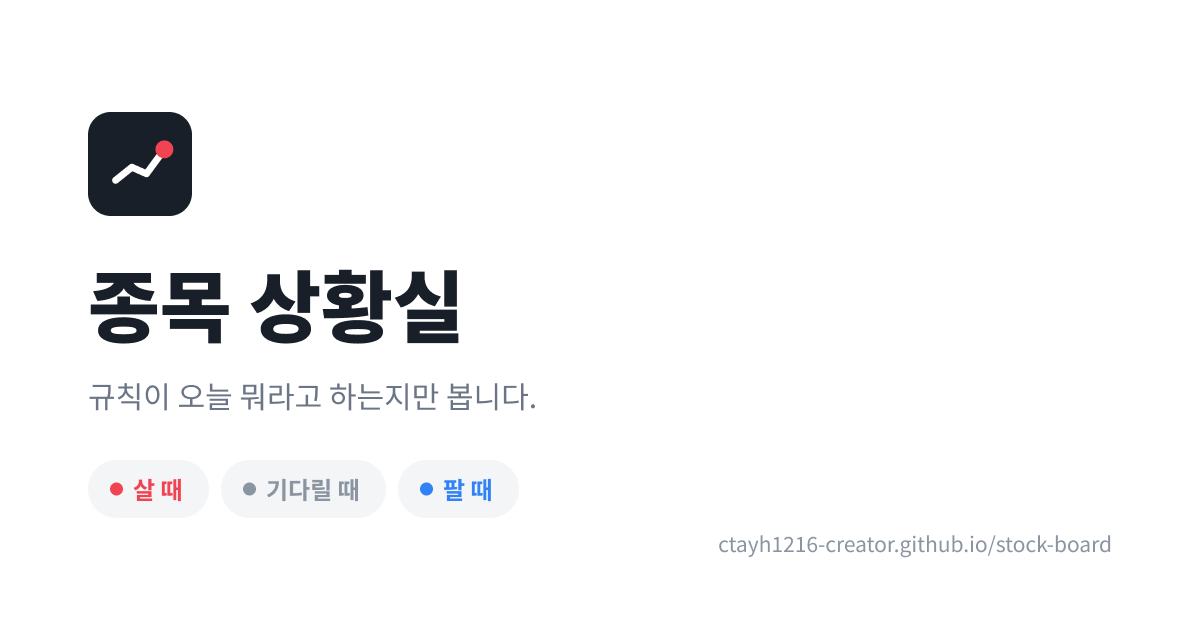
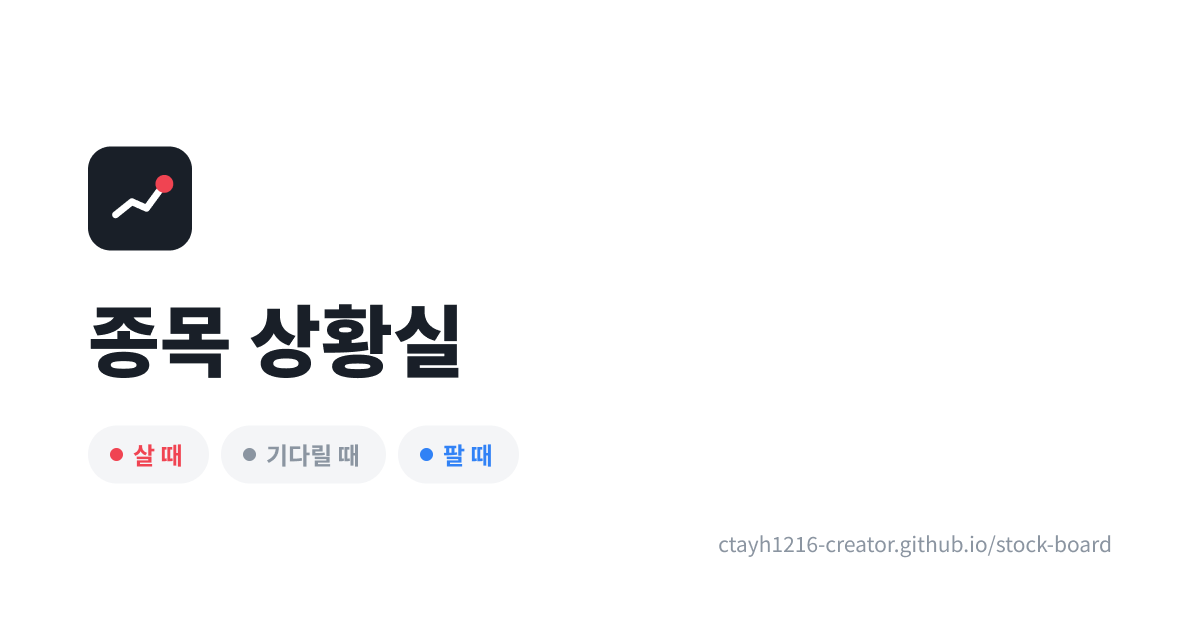
copy: 사이트·공유 카드 문구를 ko-writing 검사대로 고친다
화면 문구와 공유 카드를 스킬 검사 없이 썼다. 새 눈 검토에서 걸린 문장만 고친다.

- 공유 카드 부제 「규칙이 오늘 뭐라고 하는지만 봅니다」 삭제. 09-05에 반려된
  「사람이 아니라 규칙이 말하는 구간」과 같은 줄(우리 자세를 설명하는 문장)
- 뉴스 탭 부제 「누르면 원문으로 가요」, 「보유·관심 종목에 나온 기사예요」 삭제
- 티커·평단 → 종목·산 가격. 빈 카드, 입력칸, 보유 줄, 오류 문구를 같이 바꿔
  한 기능 안에서 말이 어긋나지 않게 한다. 걸리지 않은 매입환율은 그대로
- 전량 팔면 → 다 팔면
- title·og:title 「종목 상황실」 (엠대시, 「추천」은 탭 이름에만)
- og/meta description에 한국 추가. 화면엔 미국·한국 전환이 있는데 S&P 500만 말했다.
  한국은 162개라 코스피 200이 아니다
- 하단 안내의 저장 문구 중복 삭제

같이 고친 것
- 「지금까지 +X원 (+Y%)」의 %가 달러 기준이었다. 매입환율이 있으면 원화끼리 나눈다
  (예: 원화 +72.3% / 달러 +68.5%)
- 한글 줄바꿈 word-break:keep-all. 「계산해 / 요.」 「테 / 라다인」처럼 끊기던 것
- 빈 부제는 .hero p:empty 로 숨긴다

검사: check.py 고친 문구 금지 0 · 확인 0. 320~1600px 여덟 폭 × 네 탭 + 상세 시트
가로 넘침 0, 콘솔 오류 없음.

diff --git a/discover_template.html b/discover_template.html
@@ -3,13 +3,13 @@
 <meta charset="utf-8">
 <meta name="viewport" content="width=device-width,initial-scale=1,viewport-fit=cover">
 <meta name="robots" content="noindex,nofollow">
-<title>종목 상황실 — 오늘의 주식 추천과 뉴스</title>
-<meta name="description" content="S&P 500 전 종목을 규칙으로 걸러 오늘 주목할 종목을 골라주고, 한국어 뉴스를 함께 보여줍니다. 무료, 로그인 없음.">
+<title>종목 상황실</title>
+<meta name="description" content="S&amp;P 500과 한국 주식을 규칙으로 걸러낸 오늘의 종목과 한국어 뉴스.">
 <link rel="canonical" href="https://ctayh1216-creator.github.io/stock-board/">
 <meta property="og:type" content="website">
 <meta property="og:locale" content="ko_KR">
-<meta property="og:title" content="종목 상황실 — 오늘의 주식 추천과 뉴스">
-<meta property="og:description" content="S&P 500을 규칙으로 걸러낸 오늘의 종목과 한국어 뉴스.">
+<meta property="og:title" content="종목 상황실">
+<meta property="og:description" content="S&amp;P 500과 한국 주식을 규칙으로 걸러낸 오늘의 종목과 한국어 뉴스.">
 <meta property="og:url" content="https://ctayh1216-creator.github.io/stock-board/">
 <meta property="og:image" content="https://ctayh1216-creator.github.io/stock-board/og.png">
 <meta property="og:image:type" content="image/png">
@@ -70,6 +70,10 @@
 body{margin:0;background:var(--ground);color:var(--ink);font-family:var(--sans);
   font-size:17px;font-weight:400;line-height:1.59;letter-spacing:normal;
   -webkit-font-smoothing:antialiased}
+/* 한글은 낱말 단위로 줄을 바꾼다. 없으면 「계산해 / 요.」 「테 / 라다인」처럼 낱말 가운데서 끊긴다.
+   overflow-wrap 은 anywhere 가 아니라 break-word — anywhere 는 최소 폭 계산을 바꿔
+   좁은 줄에서 가격 숫자까지 쪼갤 수 있다. break-word 는 한 줄에 안 들어갈 때만 쪼갠다. */
+body{word-break:keep-all;overflow-wrap:break-word}
 h1,h2{font-family:var(--display);letter-spacing:normal}
 :focus-visible{outline:2px solid var(--accent);outline-offset:2px;border-radius:6px}
 .num{font-variant-numeric:tabular-nums;font-feature-settings:"tnum" 1}
@@ -109,6 +113,7 @@ button{font:inherit;color:inherit}
 .hero .stamp{margin-top:20px;font-size:13px;color:var(--t3)}
 .hero.slim{padding:12px 22px 0;text-align:left}
 .hero.slim h1,.hero.slim p{display:none}
+.hero p:empty{display:none}
 .hero.slim .stamp{margin-top:0}
 
 /* ---------- layout ---------- */
@@ -587,9 +592,9 @@ td.tk small{display:block;font-weight:400;font-size:13px;color:var(--t3);margin-
       <div class="sec-h"><h2>종목 추가</h2></div>
       <div class="fcard">
         <div class="form">
-          <input id="pfTicker" list="tickerList" placeholder="티커 (NVDA)" aria-label="티커" autocapitalize="characters">
+          <input id="pfTicker" list="tickerList" placeholder="종목 (NVDA)" aria-label="종목" autocapitalize="characters">
           <input id="pfQty" type="number" inputmode="decimal" min="0" step="any" placeholder="수량" aria-label="수량">
-          <input id="pfCost" type="number" inputmode="decimal" min="0" step="any" placeholder="평단 $" aria-label="평단 달러">
+          <input id="pfCost" type="number" inputmode="decimal" min="0" step="any" placeholder="산 가격 $" aria-label="산 가격 (달러)">
           <input id="pfFx" type="number" inputmode="decimal" min="0" step="any" placeholder="매입환율 (선택)" aria-label="매입환율">
         </div>
         <button class="btn" id="pfAdd" type="button">추가하기</button>
@@ -1552,7 +1557,7 @@ function renderNews(){
   var byTime = function(a, b){ return new Date(b.at || 0) - new Date(a.at || 0); };
   var of = function(pri){ return items.filter(function(n){ return n.pri === pri; }).sort(byTime); };
   var html =
-    newsGroup("내 종목 소식", of(0).slice(0, 15), "보유·관심 종목에 나온 기사예요.") +
+    newsGroup("내 종목 소식", of(0).slice(0, 15)) +
     newsGroup("시장 소식", of(1).slice(0, 10)) +
     newsGroup("그 밖의 소식", of(2).slice(0, 20));
   $("newsList").innerHTML = html || '<p class="empty">표시할 뉴스가 없습니다.</p>';
@@ -1591,7 +1596,7 @@ function renderPortfolio(){
   if (!PF.length){
     $("pfHero").innerHTML = '<div class="big pf-empty">' +
       '<div class="t">내 주식을 넣어보세요</div>' +
-      '<div class="d">티커·수량·평단만 넣으면 지금 시세로 평가액과 손익을 계산해요.</div></div>';
+      '<div class="d">종목, 수량, 산 가격을 넣으면 지금 시세로 손익을 계산해요.</div></div>';
     $("pfGrid").hidden = true; $("pfHoldCard").hidden = true;
     return;
   }
@@ -1602,18 +1607,20 @@ function renderPortfolio(){
     '<div class="v num">' + (c.fx ? won0(c.mvKrw) + "원" : "$" + usd(c.mvUsd, 0)) + "</div>" +
     '<div class="n">지금까지 <b class="num ' + cls(c.fx ? pnlKrw : pnlUsd) + '">' +
       (c.fx ? swon(pnlKrw) + "원" : susd(pnlUsd, 0)) +
-      (c.costUsd ? " (" + pct1(pnlUsd / c.costUsd * 100) + ")" : "") + "</b></div></div>";
+      /* 금액이 원화면 %도 원화끼리 — 달러 %를 붙이면 환율 몫이 빠진 수익률이 원화 옆에 뜬다 */
+      (c.fx ? (c.costKrw ? " (" + pct1(pnlKrw / c.costKrw * 100) + ")" : "")
+            : (c.costUsd ? " (" + pct1(pnlUsd / c.costUsd * 100) + ")" : "")) + "</b></div></div>";
   var g = function(l, v, k){
     return '<div class="kv"><span class="l">' + l + '</span><span class="v num ' + (k || "") + '">' + v + "</span></div>"; };
   $("pfGrid").innerHTML =
     g("오늘 변동", susd(c.dayUsd, 0), cls(c.dayUsd)) +
     g("달러 기준 손익", pct1(c.costUsd ? pnlUsd / c.costUsd * 100 : null), cls(pnlUsd)) +
     g("환율", c.fx ? usd(c.fx, 1) + "원" : NB) +
-    g("전량 팔면 낼 세금", c.fx ? eok(pfTax(pnlKrw)) + "원" : NB);
+    g("다 팔면 낼 세금", c.fx ? eok(pfTax(pnlKrw)) + "원" : NB);
   $("pfGrid").hidden = false;
   $("pfHolds").innerHTML = c.rows.map(function(r, i){
     return '<div class="hold">' + logoHtml(r.t, 32) + '<div><div class="tk">' + esc(r.t) + "</div>" +
-      '<div class="qt">' + r.qty + "주 · 평단 $" + usd(r.cost, 2) + "</div></div>" +
+      '<div class="qt">' + r.qty + "주 · 산 가격 $" + usd(r.cost, 2) + "</div></div>" +
       '<div class="r"><div class="a num">$' + usd(r.mvUsd, 0) + "</div>" +
       '<div class="b num ' + cls(r.pnlUsdPct) + '">' + pct1(r.pnlUsdPct) + "</div></div>" +
       '<button class="x" type="button" data-del="' + i + '" aria-label="' + esc(r.t) + ' 삭제">✕</button></div>';
@@ -1626,7 +1633,7 @@ var HERO = {
   picks: ["오늘 주목할 종목", ""],
   record:["얼마나 맞았나",
           "지수랑 붙어서 몇 번 이겼는지."],
-  news:  ["오늘의 시장 뉴스", "누르면 원문으로 가요."],
+  news:  ["오늘의 시장 뉴스", ""],
   mine:  ["내 종목", "넣은 내용은 이 기기에만 저장돼요."]
 };
 function setView(v){
@@ -1658,7 +1665,7 @@ function renderAll(){
     '투자자문업 등록 사업자가 아니며, 개인에게 맞춘 조언이 아닙니다. ' +
     '투자 판단과 책임은 이용자 본인에게 있습니다.<br><br>' +
     '시세·재무 데이터 출처는 Yahoo Finance이며 지연될 수 있습니다. 뉴스는 각 언론사의 제목과 ' +
-    '링크만 전달합니다. 내 종목에 입력한 내용은 이 기기에만 저장되고 어디로도 전송되지 않습니다.' +
+    '링크만 전달합니다.' +
     btCaveatHtml() +
     '<br><br><a href="me/" style="color:var(--accent);text-decoration:none">내 포트폴리오 콘솔 →</a>';
 }
@@ -1811,8 +1818,8 @@ $("status").addEventListener("click", function(e){
 $("pfAdd").addEventListener("click", function(){
   var t = ($("pfTicker").value || "").trim().toUpperCase();
   var qty = parseFloat($("pfQty").value), cost = parseFloat($("pfCost").value), bfx = parseFloat($("pfFx").value);
-  if (!TBL[t]) { $("pfNote").textContent = "'" + t + "' 는 S&P 500 목록에 없는 티커입니다."; return; }
-  if (!(qty > 0) || !(cost > 0)) { $("pfNote").textContent = "수량과 평단을 숫자로 입력해 주세요."; return; }
+  if (!TBL[t]) { $("pfNote").textContent = "'" + t + "'는 S&P 500 목록에 없는 종목이에요."; return; }
+  if (!(qty > 0) || !(cost > 0)) { $("pfNote").textContent = "수량과 산 가격을 숫자로 입력해 주세요."; return; }
   var row = { t:t, qty:qty, cost:cost };
   if (bfx > 0) row.bfx = bfx;
   var i = PF.findIndex(function(x){ return x.t === t; });

diff --git a/index.html b/index.html
@@ -3,13 +3,13 @@
 <meta charset="utf-8">
 <meta name="viewport" content="width=device-width,initial-scale=1,viewport-fit=cover">
 <meta name="robots" content="noindex,nofollow">
-<title>종목 상황실 — 오늘의 주식 추천과 뉴스</title>
-<meta name="description" content="S&P 500 전 종목을 규칙으로 걸러 오늘 주목할 종목을 골라주고, 한국어 뉴스를 함께 보여줍니다. 무료, 로그인 없음.">
+<title>종목 상황실</title>
+<meta name="description" content="S&amp;P 500과 한국 주식을 규칙으로 걸러낸 오늘의 종목과 한국어 뉴스.">
 <link rel="canonical" href="https://ctayh1216-creator.github.io/stock-board/">
 <meta property="og:type" content="website">
 <meta property="og:locale" content="ko_KR">
-<meta property="og:title" content="종목 상황실 — 오늘의 주식 추천과 뉴스">
-<meta property="og:description" content="S&P 500을 규칙으로 걸러낸 오늘의 종목과 한국어 뉴스.">
+<meta property="og:title" content="종목 상황실">
+<meta property="og:description" content="S&amp;P 500과 한국 주식을 규칙으로 걸러낸 오늘의 종목과 한국어 뉴스.">
 <meta property="og:url" content="https://ctayh1216-creator.github.io/stock-board/">
 <meta property="og:image" content="https://ctayh1216-creator.github.io/stock-board/og.png">
 <meta property="og:image:type" content="image/png">
@@ -70,6 +70,10 @@
 body{margin:0;background:var(--ground);color:var(--ink);font-family:var(--sans);
   font-size:17px;font-weight:400;line-height:1.59;letter-spacing:normal;
   -webkit-font-smoothing:antialiased}
+/* 한글은 낱말 단위로 줄을 바꾼다. 없으면 「계산해 / 요.」 「테 / 라다인」처럼 낱말 가운데서 끊긴다.
+   overflow-wrap 은 anywhere 가 아니라 break-word — anywhere 는 최소 폭 계산을 바꿔
+   좁은 줄에서 가격 숫자까지 쪼갤 수 있다. break-word 는 한 줄에 안 들어갈 때만 쪼갠다. */
+body{word-break:keep-all;overflow-wrap:break-word}
 h1,h2{font-family:var(--display);letter-spacing:normal}
 :focus-visible{outline:2px solid var(--accent);outline-offset:2px;border-radius:6px}
 .num{font-variant-numeric:tabular-nums;font-feature-settings:"tnum" 1}
@@ -109,6 +113,7 @@ button{font:inherit;color:inherit}
 .hero .stamp{margin-top:20px;font-size:13px;color:var(--t3)}
 .hero.slim{padding:12px 22px 0;text-align:left}
 .hero.slim h1,.hero.slim p{display:none}
+.hero p:empty{display:none}
 .hero.slim .stamp{margin-top:0}
 
 /* ---------- layout ---------- */
@@ -587,9 +592,9 @@ td.tk small{display:block;font-weight:400;font-size:13px;color:var(--t3);margin-
       <div class="sec-h"><h2>종목 추가</h2></div>
       <div class="fcard">
         <div class="form">
-          <input id="pfTicker" list="tickerList" placeholder="티커 (NVDA)" aria-label="티커" autocapitalize="characters">
+          <input id="pfTicker" list="tickerList" placeholder="종목 (NVDA)" aria-label="종목" autocapitalize="characters">
           <input id="pfQty" type="number" inputmode="decimal" min="0" step="any" placeholder="수량" aria-label="수량">
-          <input id="pfCost" type="number" inputmode="decimal" min="0" step="any" placeholder="평단 $" aria-label="평단 달러">
+          <input id="pfCost" type="number" inputmode="decimal" min="0" step="any" placeholder="산 가격 $" aria-label="산 가격 (달러)">
           <input id="pfFx" type="number" inputmode="decimal" min="0" step="any" placeholder="매입환율 (선택)" aria-label="매입환율">
         </div>
         <button class="btn" id="pfAdd" type="button">추가하기</button>
@@ -1552,7 +1557,7 @@ function renderNews(){
   var byTime = function(a, b){ return new Date(b.at || 0) - new Date(a.at || 0); };
   var of = function(pri){ return items.filter(function(n){ return n.pri === pri; }).sort(byTime); };
   var html =
-    newsGroup("내 종목 소식", of(0).slice(0, 15), "보유·관심 종목에 나온 기사예요.") +
+    newsGroup("내 종목 소식", of(0).slice(0, 15)) +
     newsGroup("시장 소식", of(1).slice(0, 10)) +
     newsGroup("그 밖의 소식", of(2).slice(0, 20));
   $("newsList").innerHTML = html || '<p class="empty">표시할 뉴스가 없습니다.</p>';
@@ -1591,7 +1596,7 @@ function renderPortfolio(){
   if (!PF.length){
     $("pfHero").innerHTML = '<div class="big pf-empty">' +
       '<div class="t">내 주식을 넣어보세요</div>' +
-      '<div class="d">티커·수량·평단만 넣으면 지금 시세로 평가액과 손익을 계산해요.</div></div>';
+      '<div class="d">종목, 수량, 산 가격을 넣으면 지금 시세로 손익을 계산해요.</div></div>';
     $("pfGrid").hidden = true; $("pfHoldCard").hidden = true;
     return;
   }
@@ -1602,18 +1607,20 @@ function renderPortfolio(){
     '<div class="v num">' + (c.fx ? won0(c.mvKrw) + "원" : "$" + usd(c.mvUsd, 0)) + "</div>" +
     '<div class="n">지금까지 <b class="num ' + cls(c.fx ? pnlKrw : pnlUsd) + '">' +
       (c.fx ? swon(pnlKrw) + "원" : susd(pnlUsd, 0)) +
-      (c.costUsd ? " (" + pct1(pnlUsd / c.costUsd * 100) + ")" : "") + "</b></div></div>";
+      /* 금액이 원화면 %도 원화끼리 — 달러 %를 붙이면 환율 몫이 빠진 수익률이 원화 옆에 뜬다 */
+      (c.fx ? (c.costKrw ? " (" + pct1(pnlKrw / c.costKrw * 100) + ")" : "")
+            : (c.costUsd ? " (" + pct1(pnlUsd / c.costUsd * 100) + ")" : "")) + "</b></div></div>";
   var g = function(l, v, k){
     return '<div class="kv"><span class="l">' + l + '</span><span class="v num ' + (k || "") + '">' + v + "</span></div>"; };
   $("pfGrid").innerHTML =
     g("오늘 변동", susd(c.dayUsd, 0), cls(c.dayUsd)) +
     g("달러 기준 손익", pct1(c.costUsd ? pnlUsd / c.costUsd * 100 : null), cls(pnlUsd)) +
     g("환율", c.fx ? usd(c.fx, 1) + "원" : NB) +
-    g("전량 팔면 낼 세금", c.fx ? eok(pfTax(pnlKrw)) + "원" : NB);
+    g("다 팔면 낼 세금", c.fx ? eok(pfTax(pnlKrw)) + "원" : NB);
   $("pfGrid").hidden = false;
   $("pfHolds").innerHTML = c.rows.map(function(r, i){
     return '<div class="hold">' + logoHtml(r.t, 32) + '<div><div class="tk">' + esc(r.t) + "</div>" +
-      '<div class="qt">' + r.qty + "주 · 평단 $" + usd(r.cost, 2) + "</div></div>" +
+      '<div class="qt">' + r.qty + "주 · 산 가격 $" + usd(r.cost, 2) + "</div></div>" +
       '<div class="r"><div class="a num">$' + usd(r.mvUsd, 0) + "</div>" +
       '<div class="b num ' + cls(r.pnlUsdPct) + '">' + pct1(r.pnlUsdPct) + "</div></div>" +
       '<button class="x" type="button" data-del="' + i + '" aria-label="' + esc(r.t) + ' 삭제">✕</button></div>';
@@ -1626,7 +1633,7 @@ var HERO = {
   picks: ["오늘 주목할 종목", ""],
   record:["얼마나 맞았나",
           "지수랑 붙어서 몇 번 이겼는지."],
-  news:  ["오늘의 시장 뉴스", "누르면 원문으로 가요."],
+  news:  ["오늘의 시장 뉴스", ""],
   mine:  ["내 종목", "넣은 내용은 이 기기에만 저장돼요."]
 };
 function setView(v){
@@ -1658,7 +1665,7 @@ function renderAll(){
     '투자자문업 등록 사업자가 아니며, 개인에게 맞춘 조언이 아닙니다. ' +
     '투자 판단과 책임은 이용자 본인에게 있습니다.<br><br>' +
     '시세·재무 데이터 출처는 Yahoo Finance이며 지연될 수 있습니다. 뉴스는 각 언론사의 제목과 ' +
-    '링크만 전달합니다. 내 종목에 입력한 내용은 이 기기에만 저장되고 어디로도 전송되지 않습니다.' +
+    '링크만 전달합니다.' +
     btCaveatHtml() +
     '<br><br><a href="me/" style="color:var(--accent);text-decoration:none">내 포트폴리오 콘솔 →</a>';
 }
@@ -1811,8 +1818,8 @@ $("status").addEventListener("click", function(e){
 $("pfAdd").addEventListener("click", function(){
   var t = ($("pfTicker").value || "").trim().toUpperCase();
   var qty = parseFloat($("pfQty").value), cost = parseFloat($("pfCost").value), bfx = parseFloat($("pfFx").value);
-  if (!TBL[t]) { $("pfNote").textContent = "'" + t + "' 는 S&P 500 목록에 없는 티커입니다."; return; }
-  if (!(qty > 0) || !(cost > 0)) { $("pfNote").textContent = "수량과 평단을 숫자로 입력해 주세요."; return; }
+  if (!TBL[t]) { $("pfNote").textContent = "'" + t + "'는 S&P 500 목록에 없는 종목이에요."; return; }
+  if (!(qty > 0) || !(cost > 0)) { $("pfNote").textContent = "수량과 산 가격을 숫자로 입력해 주세요."; return; }
   var row = { t:t, qty:qty, cost:cost };
   if (bfx > 0) row.bfx = bfx;
   var i = PF.findIndex(function(x){ return x.t === t; });
